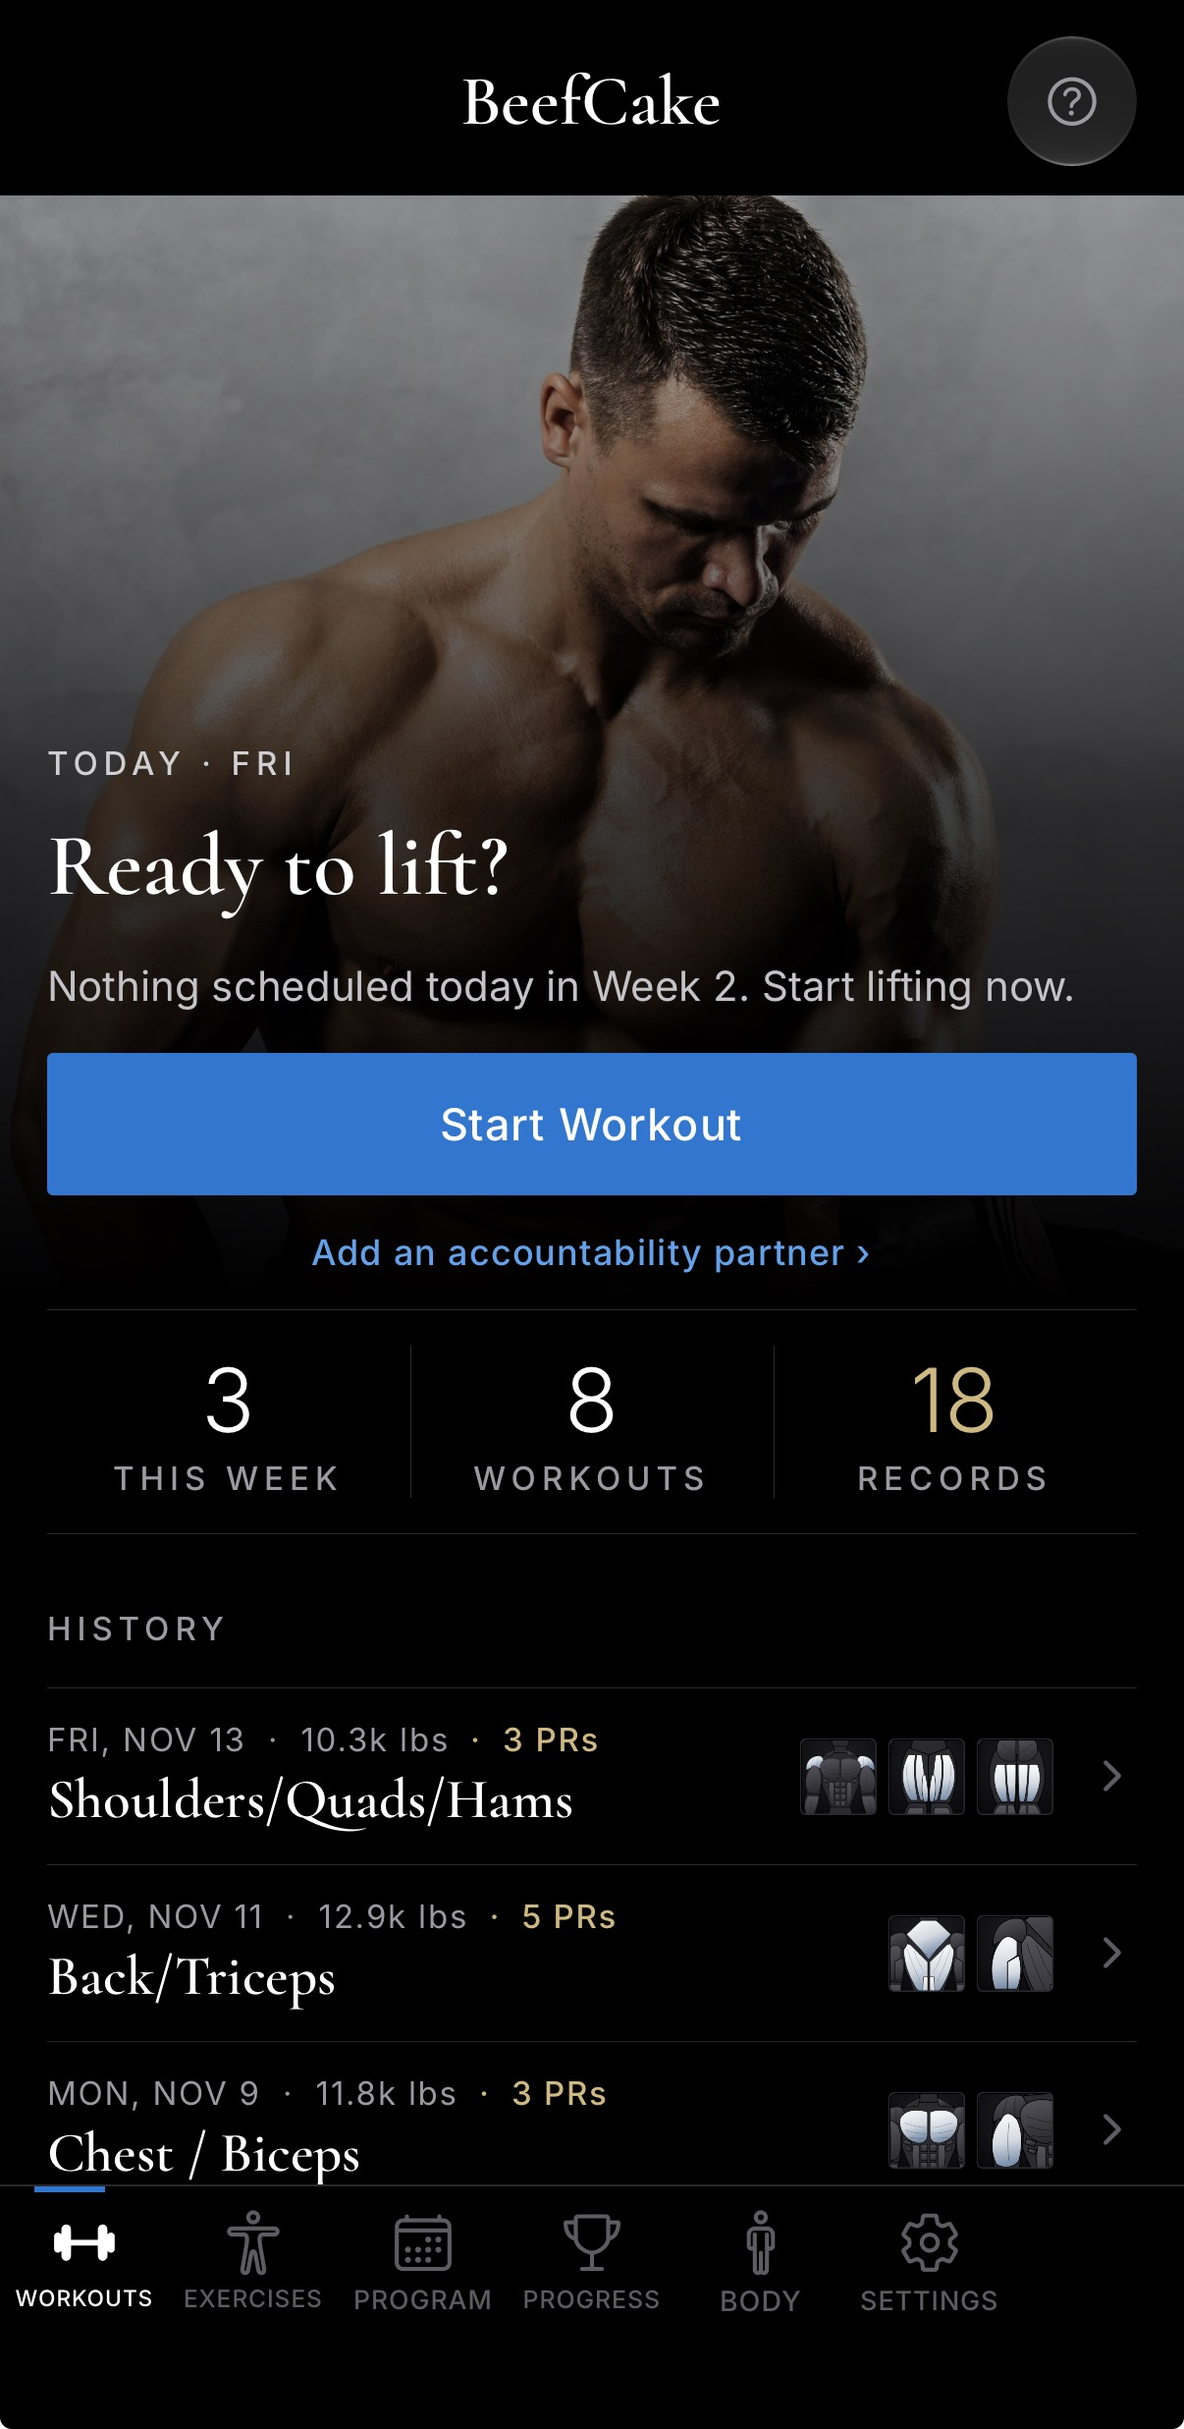
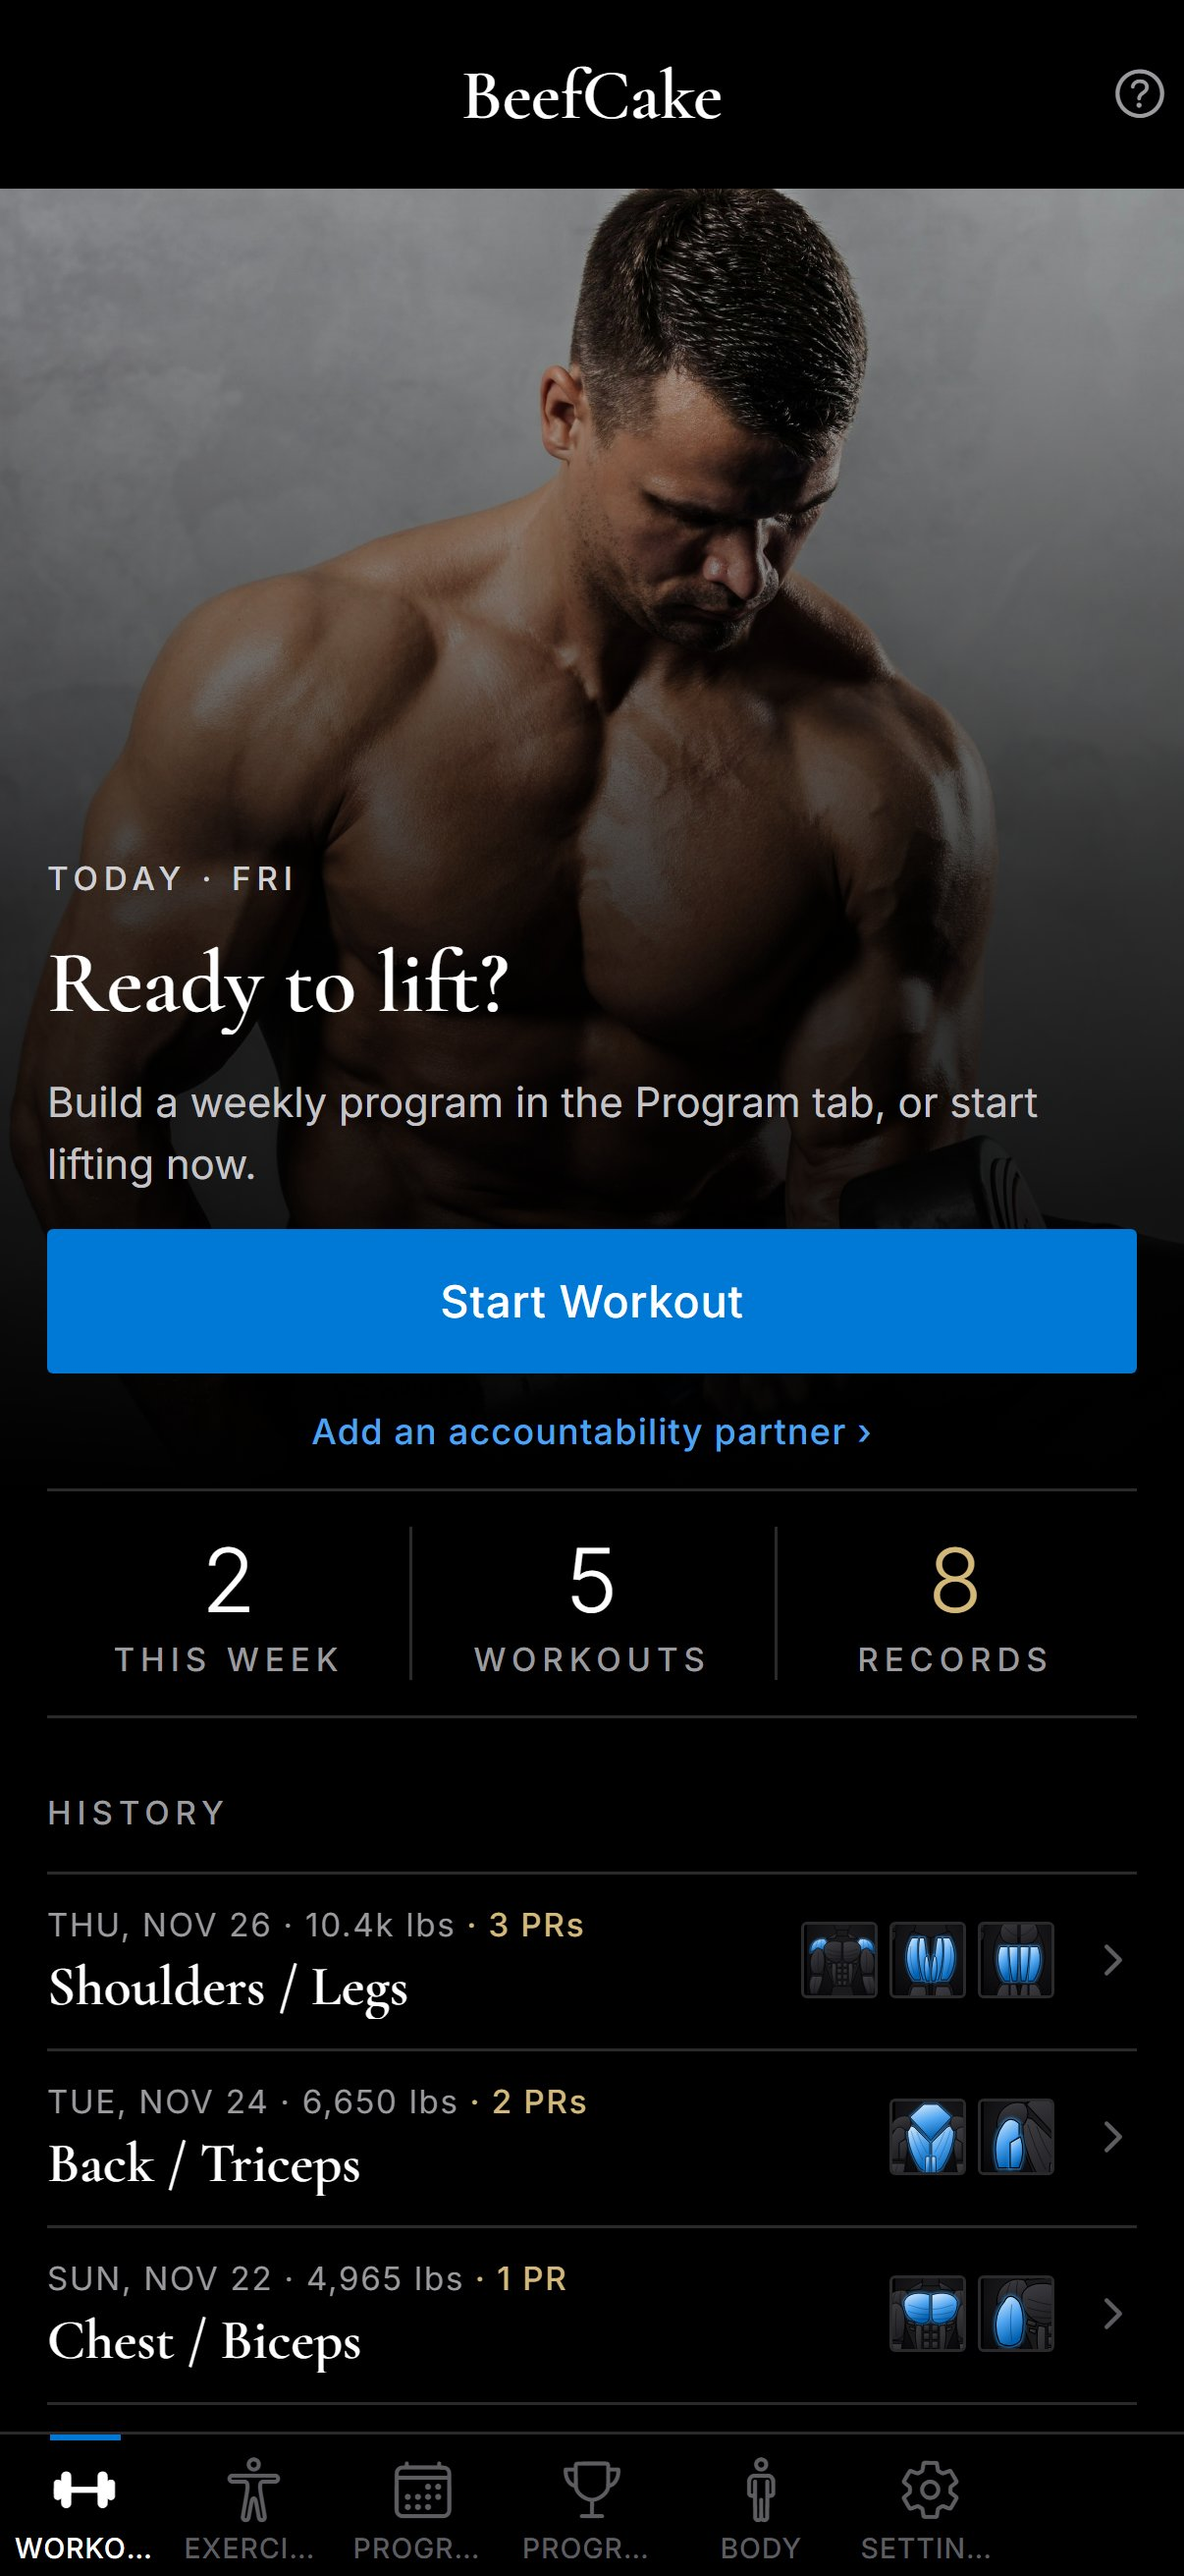
Add files via upload

diff --git a/index.html b/index.html
@@ -104,7 +104,7 @@
 
   /* Phone frame for real screenshots */
   .phone { position: relative; width: min(100%, 320px); margin: 0 auto; padding: 10px; border-radius: 46px; background: linear-gradient(160deg, #2a2a2e, #0b0b0c 40%, #1c1c1f); box-shadow: 0 0 0 1px #3a3a3f inset, 0 30px 60px -20px rgba(0,0,0,.9); }
-  .phone img { width: 100%; aspect-ratio: 1206 / 2470; object-fit: cover; object-position: top; border-radius: 37px; background: #000; }
+  .phone img { width: 100%; aspect-ratio: 1206 / 2622; object-fit: cover; object-position: top; border-radius: 37px; background: #000; }
   .hero .phone { width: min(100%, 340px); }
 
   /* Price band */
@@ -234,7 +234,7 @@
         </div>
       </div>
       <div class="phone reveal">
-        <img src="img/workouts.jpg" width="1206" height="2473" alt="BeefCake home screen: Ready to lift? with a Start Workout button, this week's count, total workouts, 18 records, and workout history.">
+        <img src="img/workouts.jpg" width="1206" height="2622" alt="BeefCake home screen: Ready to lift? with a Start Workout button, this week's count, total workouts, 8 records, and workout history with a blue muscle icon for each body part.">
       </div>
     </div>
   </section>
@@ -293,7 +293,7 @@
             <li>Copy a past workout, or fix one you already finished</li>
           </ul>
         </div>
-        <div class="phone reveal"><img src="img/program.jpg" width="1206" height="2455" loading="lazy" alt="A Tuesday chest and biceps session with set, reps and pounds fields, and the personal record shown next to each exercise."></div>
+        <div class="phone reveal"><img src="img/program.png" width="1206" height="2622" loading="lazy" alt="A Tuesday chest and biceps session with set, reps and pounds fields, and the personal record shown next to each exercise."></div>
       </div>
     </section>
 
@@ -348,7 +348,7 @@
             <li>Add your own exercises anywhere</li>
           </ul>
         </div>
-        <div class="phone reveal"><img src="img/exercises.jpg" width="1206" height="2459" loading="lazy" alt="Exercise library grouped by upper body, arms, core and legs, with a highlighted muscle illustration for each group."></div>
+        <div class="phone reveal"><img src="img/exercises.png" width="1206" height="2622" loading="lazy" alt="Exercise library grouped by upper body, arms, core and legs, with each group's muscles lit in glowing blue."></div>
       </div>
     </section>
 
@@ -364,7 +364,7 @@
             <li>A trend line for every measurement</li>
           </ul>
         </div>
-        <div class="phone reveal"><img src="img/body.jpg" width="1206" height="2474" loading="lazy" alt="Measurements screen with a body diagram labelled with neck, arm, chest, waist, belly, leg and calf sizes, plus a weight trend chart."></div>
+        <div class="phone reveal"><img src="img/body.png" width="1206" height="2622" loading="lazy" alt="Measurements screen with a Male / Female figure switch and a body diagram labelled with neck, arm, chest, waist, belly, leg and calf sizes, the chest lit in blue, plus its trend chart."></div>
       </div>
     </section>
 
@@ -392,11 +392,11 @@
       <p class="lede" style="margin-left:auto;margin-right:auto">Full Body, 5×5 Strength, Upper / Lower, Push / Pull / Legs or Body Part Split. Today's workout waits on the home screen.</p>
     </header>
     <div class="shots" tabindex="0" role="region" aria-label="App screenshots, scroll sideways for more">
-      <figure><div class="phone"><img src="img/workouts.jpg" width="1206" height="2473" loading="lazy" alt="Home screen with today's workout."></div><figcaption>Today</figcaption></figure>
-      <figure><div class="phone"><img src="img/program.jpg" width="1206" height="2455" loading="lazy" alt="Weekly program editor."></div><figcaption>Program</figcaption></figure>
-      <figure><div class="phone"><img src="img/exercise-list.jpg" width="1206" height="2470" loading="lazy" alt="Chest exercises with records."></div><figcaption>Exercises</figcaption></figure>
+      <figure><div class="phone"><img src="img/workouts.jpg" width="1206" height="2622" loading="lazy" alt="Home screen with today's workout."></div><figcaption>Today</figcaption></figure>
+      <figure><div class="phone"><img src="img/program.png" width="1206" height="2622" loading="lazy" alt="Weekly program editor."></div><figcaption>Program</figcaption></figure>
+      <figure><div class="phone"><img src="img/exercise-list.png" width="1206" height="2622" loading="lazy" alt="Chest exercises with records."></div><figcaption>Exercises</figcaption></figure>
       <figure><div class="phone"><img src="img/progress-trophies.png" width="1206" height="2622" loading="lazy" alt="Volume trophies, medals and ribbons."></div><figcaption>Records</figcaption></figure>
-      <figure><div class="phone"><img src="img/body.jpg" width="1206" height="2474" loading="lazy" alt="Body measurements."></div><figcaption>Body</figcaption></figure>
+      <figure><div class="phone"><img src="img/body.png" width="1206" height="2622" loading="lazy" alt="Body measurements."></div><figcaption>Body</figcaption></figure>
     </div>
   </section>
 
